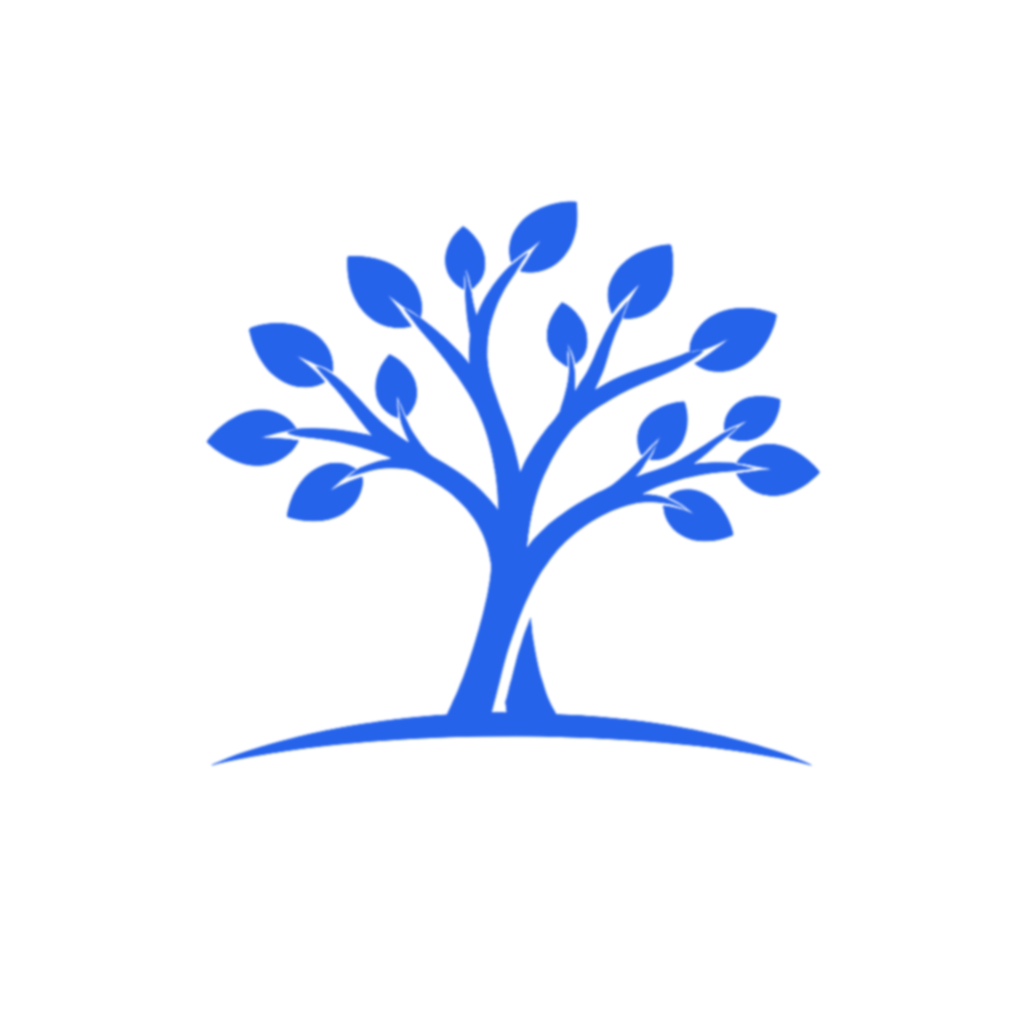
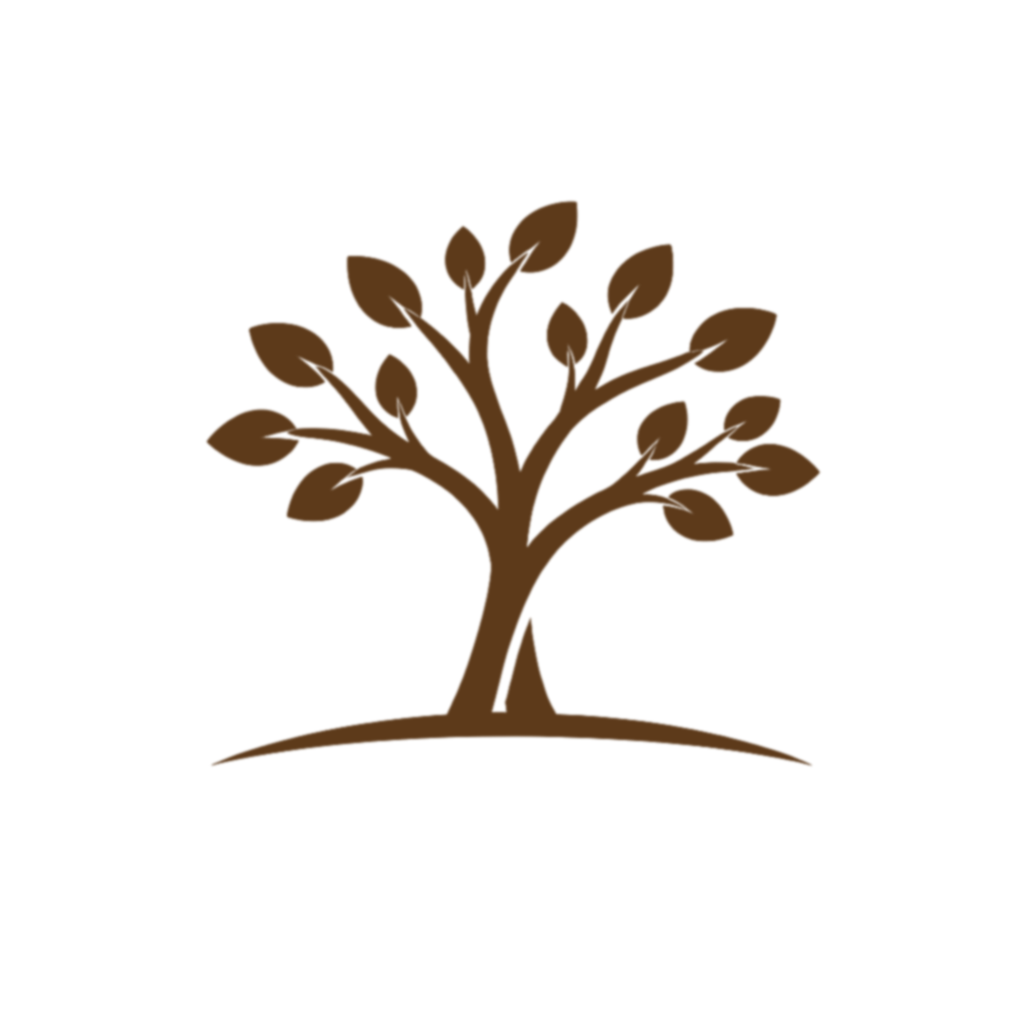
feat: apply Cafe Suave brown theme palette

Changed region(s): [[0.1875, 0.1875, 0.8125, 0.75]]

diff --git a/lib/config/theme.dart b/lib/config/theme.dart
@@ -2,14 +2,14 @@ import 'package:flutter/material.dart';
 import 'package:google_fonts/google_fonts.dart';
 
 class AppColors {
-  static const primary = Color(0xFF2563EB);
-  static const secondary = Color(0xFF00B894);
-  static const tertiary = Color(0xFFFF7675);
+  static const primary = Color(0xFF5D3A1A);
+  static const secondary = Color(0xFFA8763E);
+  static const tertiary = Color(0xFF2E7D32);
   static const textDark = Color(0xFF2D3436);
   static const textBody = Color(0xFF636E72);
-  static const scaffold = Color(0xFFF8F9FA);
-  static const border = Color(0xFFE0E0E0);
-  static const divider = Color(0xFFF0F0F0);
+  static const scaffold = Color(0xFFF8F4F0);
+  static const border = Color(0xFFE0D5CC);
+  static const divider = Color(0xFFF0EBE5);
 }
 
 class AppTheme {
